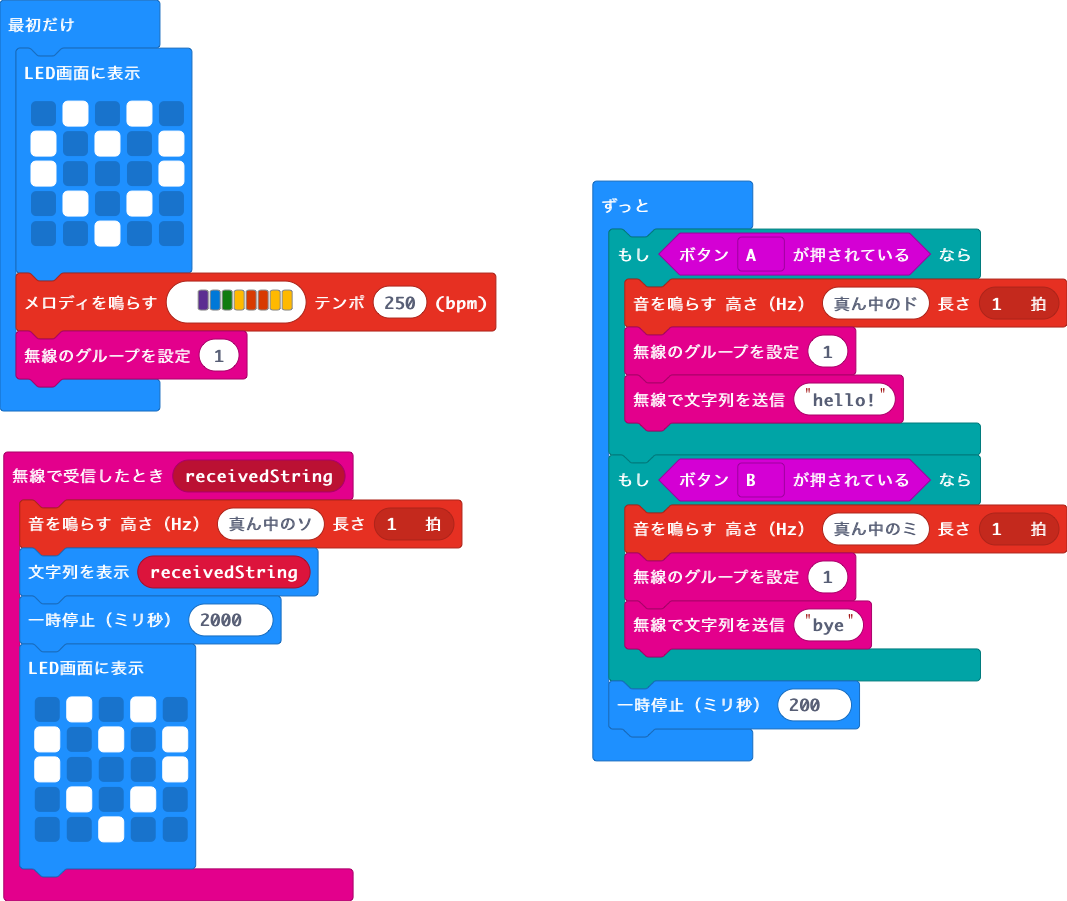
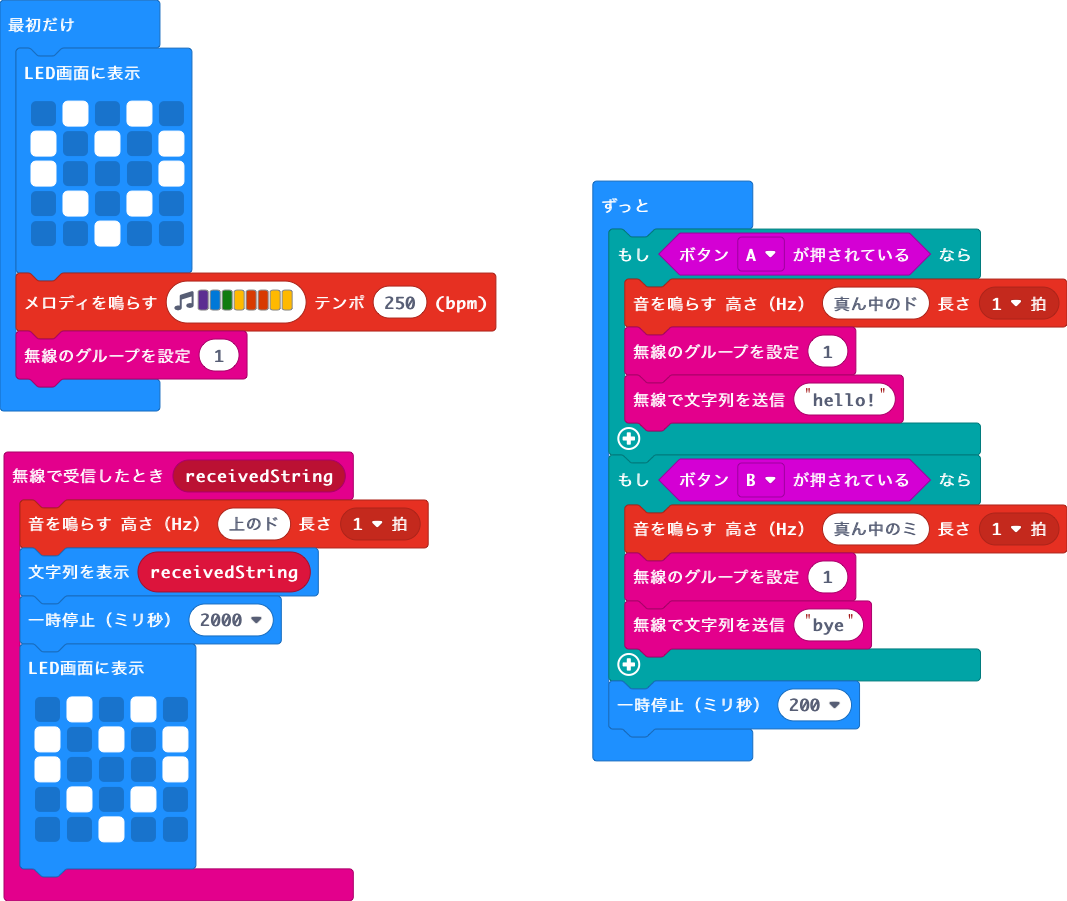
# to change beep tone

diff --git a/main.ts b/main.ts
@@ -1,5 +1,5 @@
 radio.onReceivedString(function (receivedString) {
-    music.playTone(392, music.beat(BeatFraction.Whole))
+    music.playTone(523, music.beat(BeatFraction.Whole))
     basic.showString(receivedString)
     basic.pause(2000)
     basic.showLeds(`
